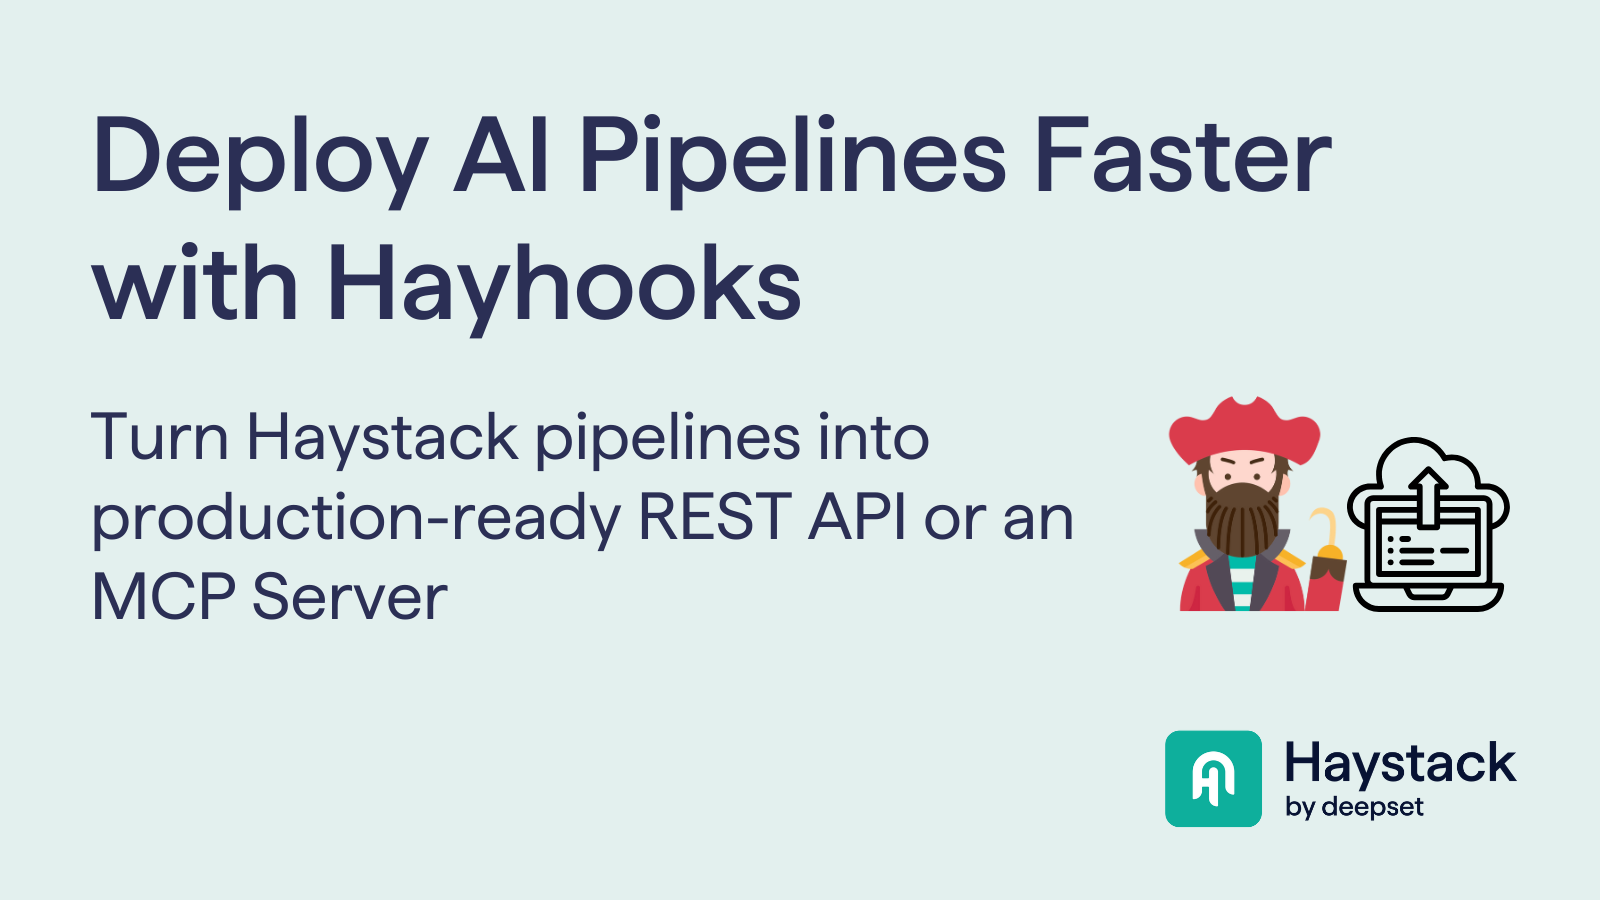
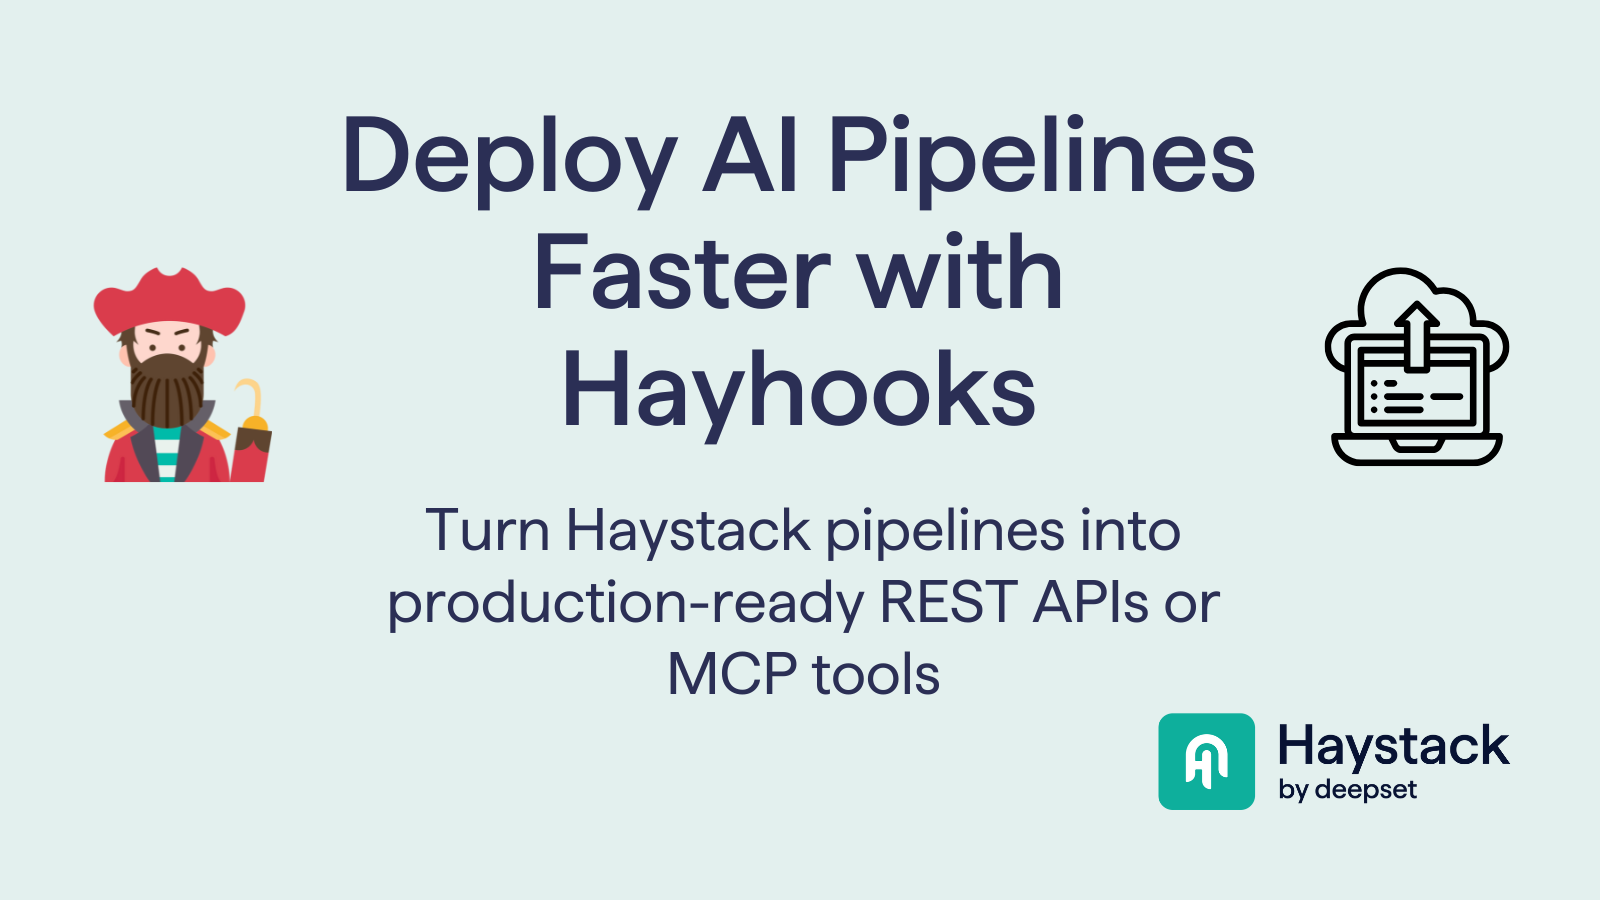
change thumbnail image

Changed region(s): [[0.0312, 0.2489, 0.9688, 0.7778], [0.0625, 0.1244, 0.8438, 0.2489], [0.7188, 0.7778, 0.9688, 0.9333]]

diff --git a/content/blog/deploy-ai-pipelines-faster-with-hayhooks/index.md b/content/blog/deploy-ai-pipelines-faster-with-hayhooks/index.md
@@ -1,7 +1,7 @@
 ---
 layout: blog-post
 title: Deploy AI Pipelines Faster with Hayhooks
-description: Turn any Haystack pipeline into a production-ready REST API or expose it as an MCP server with full customization and minimal code
+description: Turn Haystack pipelines into a production-ready REST APIs or expose them as MCP tools with full customization and minimal code
 featured_image: thumbnail.png
 images: ["blog/deploy-ai-pipelines-faster-with-hayhooks/thumbnail.png"]
 toc: True
